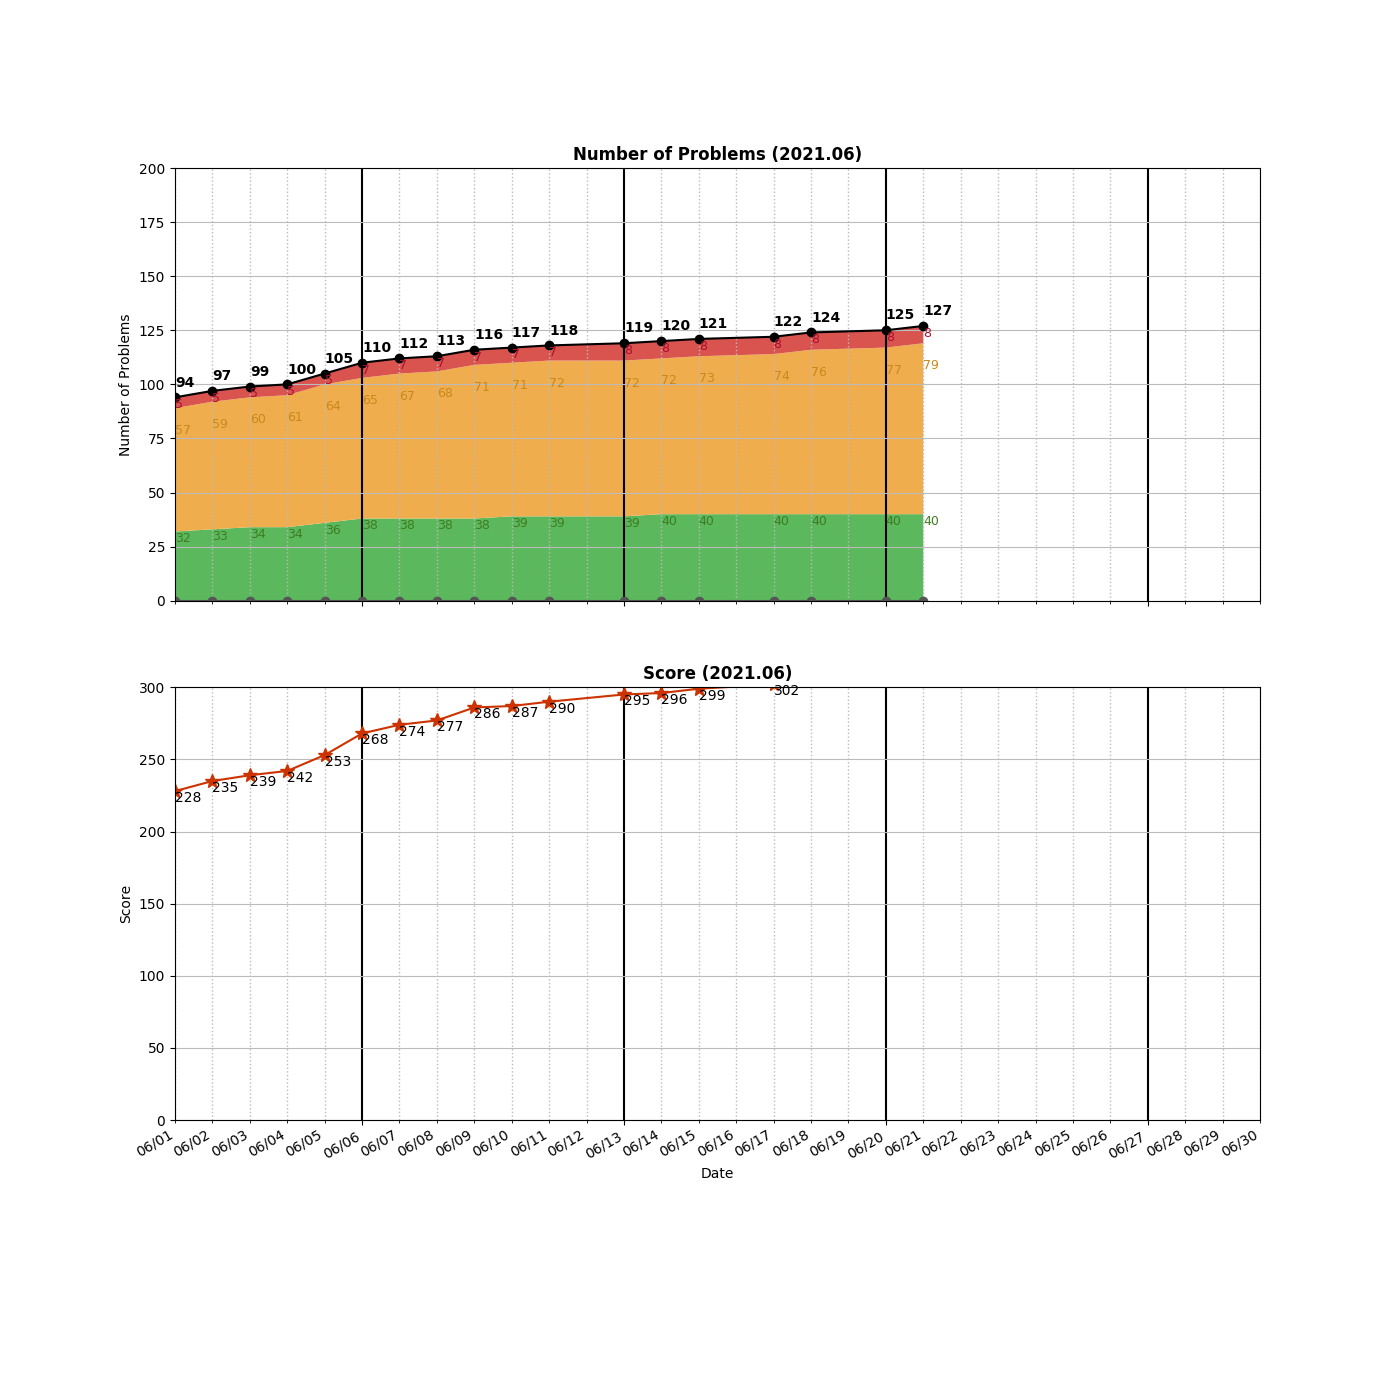
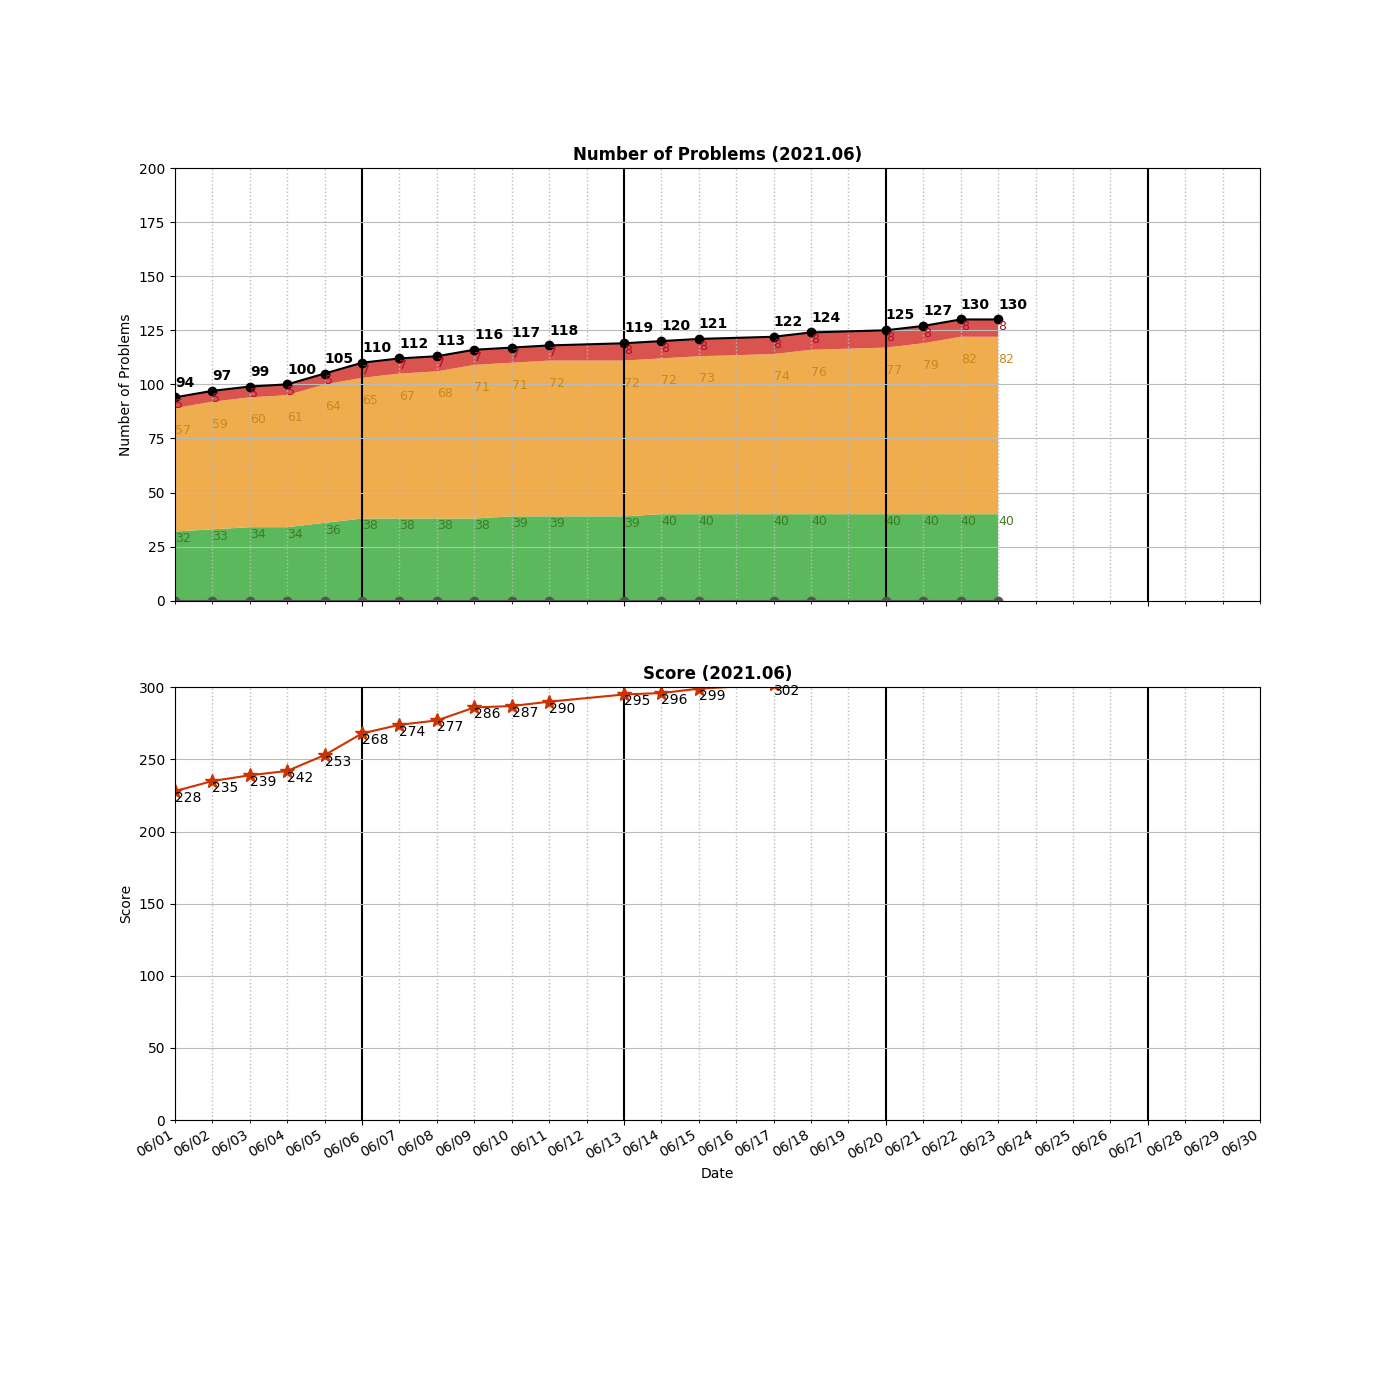
Added __0515__Find Largest Value in Each Tree Row.py

Changed region(s): [[0.645, 0.215, 0.7371, 0.43]]

diff --git a/algo/BFS/__0515__Find Largest Value in Each Tree Row.py b/algo/BFS/__0515__Find Largest Value in Each Tree Row.py
@@ -1,0 +1,25 @@
+# Definition for a binary tree node.
+# class TreeNode:
+#     def __init__(self, val=0, left=None, right=None):
+#         self.val = val
+#         self.left = left
+#         self.right = right
+class Solution:
+    def largestValues(self, root: TreeNode) -> List[int]:
+        if not root:
+            return []
+        
+        results = []
+        deq = collections.deque([root])
+        while deq:
+            maxInLayer = -float('inf')
+            for _ in range(len(deq)):
+                cur = deq.popleft()
+                maxInLayer = max(maxInLayer, cur.val)
+                if cur.left:
+                    deq.append(cur.left)
+                if cur.right:
+                    deq.append(cur.right)
+            results.append(maxInLayer)
+        return results
+            

diff --git a/README.md b/README.md
@@ -15,7 +15,8 @@ algo
 │   ├── __0199__Binary\ Tree\ Right\ Side\ View.py
 │   ├── __0207__Course\ Schedule.py
 │   ├── __0210__Course\ Schedule\ II.py
-│   └── __0297__Serialize\ and\ Deserialize\ Binary\ Tree.py
+│   ├── __0297__Serialize\ and\ Deserialize\ Binary\ Tree.py
+│   └── __0515__Find\ Largest\ Value\ in\ Each\ Tree\ Row.py
 ├── BinarySearch
 │   ├── __0033__Search\ in\ Rotated\ Sorted\ Array.py
 │   ├── __0034__Find\ First\ and\ Last\ Position\ of\ Element\ in\ Sorted\ Array.py
@@ -53,6 +54,7 @@ algo
 │   ├── __0694__Number\ of\ Distinct\ Islands.py
 │   ├── __0695__Max\ Area\ of\ Island.py
 │   ├── __0784__Letter\ Case\ Permutation.py
+│   ├── __1254__Number\ of\ Closed\ Islands.py
 │   └── __1593__Split\ a\ String\ Into\ the\ Max\ Number\ of\ Unique\ Substrings.py
 ├── DP
 │   ├── __0010__Regular\ Expression\ Matching.py
@@ -62,6 +64,7 @@ algo
 │   ├── __0070__Climbing\ Stairs.py
 │   ├── __0120__Triangle.py
 │   ├── __0121__Best\ Time\ to\ Buy\ and\ Sell\ Stock.py
+│   ├── __0221__Maximal\ Square.py
 │   ├── __0322__Coin\ Change.py
 │   └── __0576__Out\ of\ Boundary\ Paths.py
 ├── DataStructure
@@ -154,7 +157,7 @@ algo
         ├── LinkedList.cpython-37.pyc
         └── UnrolledLinkedList.cpython-37.pyc
 
-18 directories, 135 files
+18 directories, 138 files
 
 =====================================
 ============= Local Repo ============
@@ -234,6 +237,7 @@ __0208__Implement Trie (Prefix Tree).py
 __0210__Course Schedule II.py
 __0215__Kth Largest Element in an Array.py
 __0216__Combination Sum III.py
+__0221__Maximal Square.py
 __0226__Invert Binary Tree.py
 __0230__Kth Smallest Element in a BST.py
 __0234__Palindrome Linked List.py
@@ -258,6 +262,7 @@ __0387__First Unique Character in a String.py
 __0399__Evaluate Division.py
 __0401__Binary Watch.py
 __0437__Path Sum III.py
+__0515__Find Largest Value in Each Tree Row.py
 __0532__K-diff Pairs in an Array.py
 __0547__Number of Provinces.py
 __0559__Maximum Depth of N-ary Tree.py
@@ -283,10 +288,11 @@ __0922__Sort Array By Parity II.py
 __0969__Pancake Sorting.py
 __0973__K Closest Points to Origin.py
 __1099__Two Sum Less Than K.py
+__1254__Number of Closed Islands.py
 __1429__First Unique Number.py
 __1593__Split a String Into the Max Number of Unique Substrings.py
 =====================================
-Num of Python Practice:  126
+Num of Python Practice:  129
 
 
 =====================================
@@ -368,6 +374,7 @@ Num of Python Practice:  126
  0210 Course Schedule II
  0215 Kth Largest Element in an Array
  0216 Combination Sum III
+ 0221 Maximal Square
  0226 Invert Binary Tree
  0230 Kth Smallest Element in a BST
  0234 Palindrome Linked List
@@ -392,6 +399,7 @@ Num of Python Practice:  126
  0399 Evaluate Division
  0401 Binary Watch
  0437 Path Sum III
+ 0515 Find Largest Value in Each Tree Row
  0532 K-diff Pairs in an Array
  0547 Number of Provinces
  0559 Maximum Depth of N-ary Tree
@@ -417,14 +425,15 @@ Num of Python Practice:  126
  0969 Pancake Sorting
  0973 K Closest Points to Origin
  1099 Two Sum Less Than K
+ 1254 Number of Closed Islands
  1429 First Unique Number
  1593 Split a String Into the Max Number of Unique Substrings
 =====================================
 Solved / Total (Easy)  :   40 /  500
-Solved / Total (Medium):   79 / 1006
+Solved / Total (Medium):   82 / 1007
 Solved / Total (Hard)  :    8 /  399
-Solved / Total (All)   :  127 / 1905
-Total Score            :  317
+Solved / Total (All)   :  130 / 1906
+Total Score            :  326
 =====================================
 
 ```
